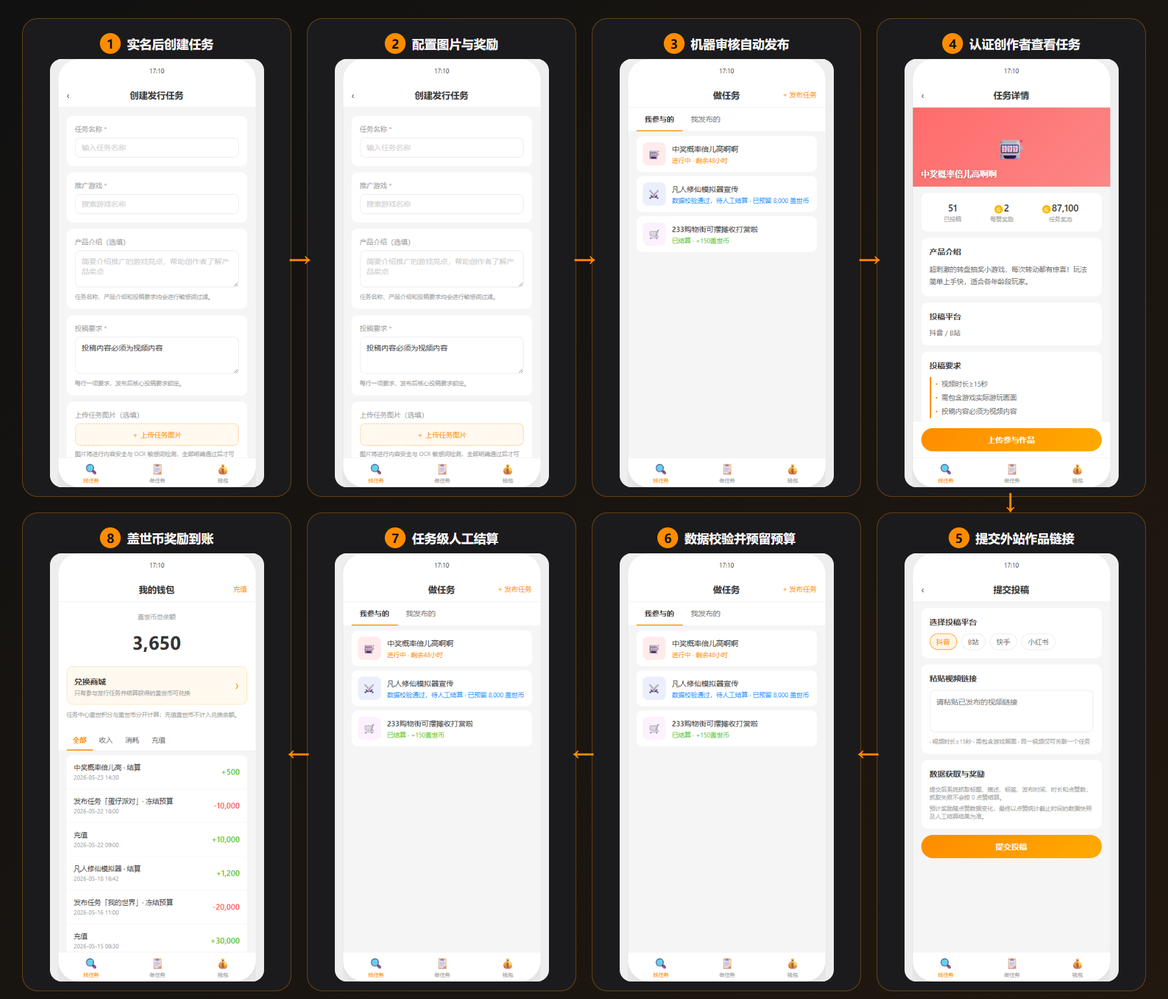
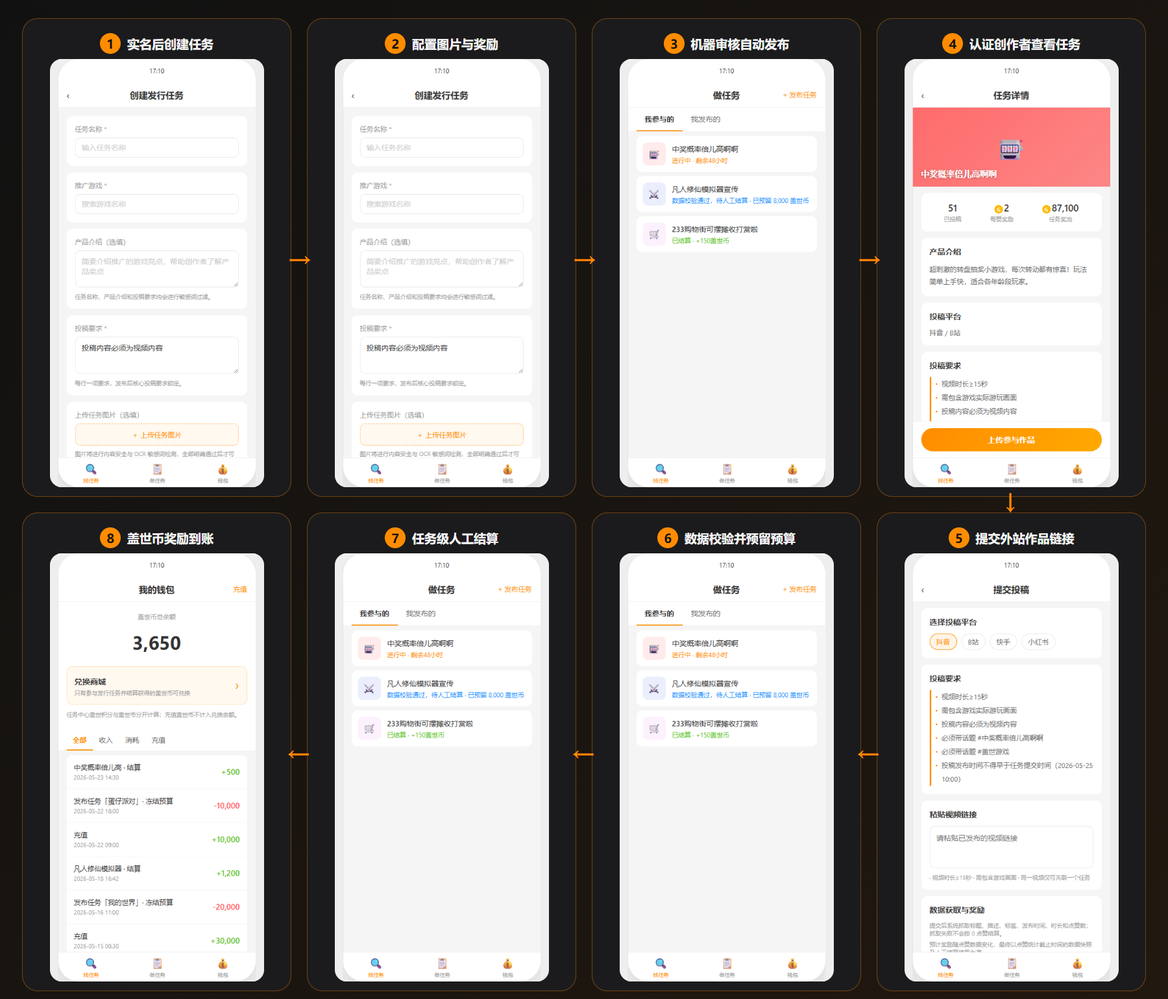
feat: enforce publisher submission requirements

Changed region(s): [[0.7778, 0.6545, 0.9644, 0.9662]]

diff --git a/demos/Mod与发行人/发行人计划demo.html b/demos/Mod与发行人/发行人计划demo.html
@@ -245,6 +245,7 @@ body{font-family:-apple-system,BlinkMacSystemFont,"Segoe UI",Roboto,sans-serif;b
 <div class="header"><span class="back" onclick="showView('mytask')">‹</span><span class="title">提交投稿</span></div>
 <div class="content">
 <div class="section"><div class="section-title">选择投稿平台</div><div class="platform-multi" id="submit-platforms"><div class="pm-item selected" data-p="douyin">抖音</div><div class="pm-item" data-p="bilibili">B站</div><div class="pm-item" data-p="kuaishou">快手</div><div class="pm-item" data-p="xiaohongshu">小红书</div></div></div>
+<div class="section" id="submit-requirements"><div class="section-title">投稿要求</div></div>
 <div class="section"><div class="section-title">粘贴视频链接</div><textarea id="video-link" style="width:100%;padding:12px;border:1px solid #e8e8e8;border-radius:10px;font-size:14px;resize:none;height:80px;outline:none" placeholder="请粘贴已发布的视频链接"></textarea><div class="form-tip">· 视频时长≥15秒 · 需包含游戏画面 · 同一视频仅可关联一个任务</div></div>
 <div class="section submission-data-card" id="submission-data-card"><div class="section-title">数据获取与奖励</div><div class="form-tip">提交后系统抓取标题、描述、标签、发布时间、时长和点赞数；抓取失败不会按 0 点赞结算。</div><div class="form-tip">预计奖励随点赞数据变化，最终以点赞统计截止时间的数据快照及人工结算结果为准。</div></div>
 <div style="padding:0 16px 16px"><button class="btn-primary" onclick="submitVideo()">提交投稿</button></div>
@@ -308,15 +309,15 @@ const platformMap={douyin:'抖音',bilibili:'B站',kuaishou:'快手',xiaohongshu
 const CI='<span class="coin-icon">G</span>';
 
 const tasks=[
-{id:1,title:'中奖概率倍儿高啊啊',gameId:1,badge:'官方',platforms:['douyin','bilibili'],reward:2,maxReward:10000,pool:87100,reserved:30000,submissions:51,deadline:'2026-06-15',snapshotDeadline:'2026-06-18 23:59',status:'进行中',ruleVersion:1,productIntro:'超刺激的转盘抽奖小游戏，每次转动都有惊喜！玩法简单上手快，适合各年龄段玩家。',
+{id:1,title:'中奖概率倍儿高啊啊',gameId:1,badge:'官方',platforms:['douyin','bilibili'],reward:2,maxReward:10000,pool:87100,reserved:30000,submissions:51,submittedAt:'2026-05-25 10:00',deadline:'2026-06-15',snapshotDeadline:'2026-06-18 23:59',status:'进行中',ruleVersion:1,productIntro:'超刺激的转盘抽奖小游戏，每次转动都有惊喜！玩法简单上手快，适合各年龄段玩家。',
 requirements:['视频时长≥15秒','需包含游戏实际游玩画面','投稿内容必须为视频内容']},
-{id:2,title:'凡人修仙模拟器宣传',gameId:2,badge:null,platforms:['bilibili'],reward:1,maxReward:8000,pool:50000,reserved:16000,submissions:11,deadline:'2026-06-10',snapshotDeadline:'2026-06-13 23:59',status:'进行中',ruleVersion:1,productIntro:'国风修仙放置类RPG，从凡人一步步修炼成仙。画面精美，剧情丰富，适合喜欢修仙题材的玩家。建议展示核心战斗和升级系统。',
+{id:2,title:'凡人修仙模拟器宣传',gameId:2,badge:null,platforms:['bilibili'],reward:1,maxReward:8000,pool:50000,reserved:16000,submissions:11,submittedAt:'2026-05-24 12:00',deadline:'2026-06-10',snapshotDeadline:'2026-06-13 23:59',status:'进行中',ruleVersion:1,productIntro:'国风修仙放置类RPG，从凡人一步步修炼成仙。画面精美，剧情丰富，适合喜欢修仙题材的玩家。建议展示核心战斗和升级系统。',
 requirements:['视频时长≥30秒','需展示游戏核心玩法','标题需包含游戏名称','投稿内容必须为视频']},
-{id:3,title:'233购物街可摆摊收打赏啦',gameId:3,badge:'官方',platforms:['douyin','kuaishou','xiaohongshu'],reward:3,maxReward:6000,pool:30000,reserved:12000,submissions:7,deadline:'2026-06-01',snapshotDeadline:'2026-06-04 23:59',status:'进行中',ruleVersion:1,productIntro:'模拟经营类游戏，玩家可以开店摆摊、装修店铺、与好友互动。新版本上线了打赏功能，社交玩法更丰富。',
+{id:3,title:'233购物街可摆摊收打赏啦',gameId:3,badge:'官方',platforms:['douyin','kuaishou','xiaohongshu'],reward:3,maxReward:6000,pool:30000,reserved:12000,submissions:7,submittedAt:'2026-05-20 09:30',deadline:'2026-06-01',snapshotDeadline:'2026-06-04 23:59',status:'进行中',ruleVersion:1,productIntro:'模拟经营类游戏，玩家可以开店摆摊、装修店铺、与好友互动。新版本上线了打赏功能，社交玩法更丰富。',
 requirements:['视频时长≥15秒','需展示摆摊和打赏功能','投稿内容必须为视频']},
-{id:4,title:'测测你是热梗王吗推广',gameId:4,badge:null,platforms:['douyin','bilibili','kuaishou','xiaohongshu'],reward:2,maxReward:5000,pool:25000,reserved:10000,submissions:7,deadline:'2026-06-08',snapshotDeadline:'2026-06-11 23:59',status:'进行中',ruleVersion:1,productIntro:'趣味答题游戏，涵盖最新网络热梗。答对越多排名越高，适合拍摄"挑战类"短视频，容易引发观众互动。',
+{id:4,title:'测测你是热梗王吗推广',gameId:4,badge:null,platforms:['douyin','bilibili','kuaishou','xiaohongshu'],reward:2,maxReward:5000,pool:25000,reserved:10000,submissions:7,submittedAt:'2026-05-21 14:00',deadline:'2026-06-08',snapshotDeadline:'2026-06-11 23:59',status:'进行中',ruleVersion:1,productIntro:'趣味答题游戏，涵盖最新网络热梗。答对越多排名越高，适合拍摄"挑战类"短视频，容易引发观众互动。',
 requirements:['视频时长≥15秒','需展示答题过程和结果','推荐使用相关话题标签','投稿内容必须为视频']},
-{id:5,title:'polo小球角色分享',gameId:5,badge:null,platforms:['xiaohongshu'],reward:5,maxReward:15000,pool:60000,reserved:15000,submissions:7,deadline:'2026-06-20',snapshotDeadline:'2026-06-23 23:59',status:'进行中',ruleVersion:1,productIntro:'休闲竞技小球对战游戏，角色造型可爱多样。适合在小红书分享角色外观和精彩对战瞬间。',
+{id:5,title:'polo小球角色分享',gameId:5,badge:null,platforms:['xiaohongshu'],reward:5,maxReward:15000,pool:60000,reserved:15000,submissions:7,submittedAt:'2026-05-26 11:00',deadline:'2026-06-20',snapshotDeadline:'2026-06-23 23:59',status:'进行中',ruleVersion:1,productIntro:'休闲竞技小球对战游戏，角色造型可爱多样。适合在小红书分享角色外观和精彩对战瞬间。',
 requirements:['视频时长≥10秒','需展示角色外观或对战画面','投稿内容必须为视频']}
 ];
 
@@ -331,8 +332,8 @@ const rankData=[
 ];
 
 const myPublished=[
-{id:101,title:'我的世界建筑大赛',status:'机器审核中',statusColor:'#1890ff',gameId:7,reward:10,maxReward:1000,pool:20000,reserved:0,submissions:0,platforms:['bilibili','douyin'],deadline:'2026-09-30 23:59',snapshotDeadline:'2026-10-03 23:59',ruleVersion:1,productIntro:'分享有创意的建筑作品。',requirements:['投稿内容必须为视频内容'],budgetSources:{recharge:20000,reward:0}},
-{id:102,title:'蛋仔派对新皮肤推广',status:'进行中',statusColor:'#ff8c00',gameId:8,reward:5,maxReward:500,pool:10000,reserved:2000,submissions:4,platforms:['douyin','kuaishou'],deadline:'2026-09-25 23:59',snapshotDeadline:'2026-09-28 23:59',ruleVersion:1,productIntro:'展示新皮肤及局内效果。',requirements:['投稿内容必须为视频内容'],budgetSources:{recharge:10000,reward:0}}
+{id:101,title:'我的世界建筑大赛',status:'机器审核中',statusColor:'#1890ff',gameId:7,reward:10,maxReward:1000,pool:20000,reserved:0,submissions:0,platforms:['bilibili','douyin'],submittedAt:'2026-09-11 10:00',deadline:'2026-09-30 23:59',snapshotDeadline:'2026-10-03 23:59',ruleVersion:1,productIntro:'分享有创意的建筑作品。',requirements:['投稿内容必须为视频内容'],budgetSources:{recharge:20000,reward:0}},
+{id:102,title:'蛋仔派对新皮肤推广',status:'进行中',statusColor:'#ff8c00',gameId:8,reward:5,maxReward:500,pool:10000,reserved:2000,submissions:4,platforms:['douyin','kuaishou'],submittedAt:'2026-09-10 14:30',deadline:'2026-09-25 23:59',snapshotDeadline:'2026-09-28 23:59',ruleVersion:1,productIntro:'展示新皮肤及局内效果。',requirements:['投稿内容必须为视频内容'],budgetSources:{recharge:10000,reward:0}}
 ];
 const myJoined=[
 {taskId:1,status:'进行中',statusColor:'#ff8c00',note:'剩余48小时'},
@@ -360,6 +361,7 @@ const rechargeSkus=[1000,5000,10000,50000,100000,500000];
 
 const publisherState={
   beijingDate:'2026-09-11',
+  beijingDateTime:'2026-09-11 10:00',
   submittedToday:9,
   submitPending:false,
   uploadedImages:[]
@@ -368,7 +370,7 @@ const publisherState={
 const submissions=[
   {
     id:'SUB001',taskId:1,platform:'douyin',contentId:'7382xxx',link:'https://www.douyin.com/video/7382xxx',
-    title:'转盘挑战实录',description:'挑战中奖概率',tags:['游戏','转盘'],duration:36,likes:3800,
+    title:'转盘挑战实录',description:'挑战中奖概率',tags:['中奖概率倍儿高啊啊','盖世游戏'],publishedAt:'2026-05-26 18:20',duration:36,likes:3800,
     fetchedAt:'2026-09-11 10:30',expectedReward:7600,reservedCoin:10000,
     status:'数据校验通过，待人工结算',risk:'正常'
   }
@@ -400,6 +402,46 @@ const submissionScenario=link=>
   link.includes('timeout')?'抓取重试':
   link.includes('private')?'风险挂起':
   link.includes('risk')?'人工处理':'normal';
+
+function requiredSubmissionTopics(task=currentTask){
+  const game=task?G(task.gameId):null;
+  return game?[game.name,'盖世游戏']:['盖世游戏'];
+}
+
+function submissionRequirements(task=currentTask){
+  if(!task)return [];
+  const [gameTopic,brandTopic]=requiredSubmissionTopics(task);
+  return [...new Set([
+    ...(task.requirements||[]),
+    `必须带话题 #${gameTopic}`,
+    `必须带话题 #${brandTopic}`,
+    `投稿发布时间不得早于任务提交时间（${task.submittedAt}）`
+  ])];
+}
+
+function renderSubmissionRequirements(){
+  const container=document.getElementById('submit-requirements');
+  if(!container||!currentTask)return;
+  container.innerHTML=`<div class="section-title">投稿要求</div><ul class="requirement-list">${submissionRequirements(currentTask).map(item=>`<li>${item}</li>`).join('')}</ul>`;
+}
+
+function mockSubmissionContent(link,task=currentTask){
+  const [gameTopic,brandTopic]=requiredSubmissionTopics(task);
+  const tags=link.includes('missing-game-topic')?[brandTopic]:link.includes('missing-brand-topic')?[gameTopic]:[gameTopic,brandTopic];
+  const publishedAt=link.includes('early')?'2026-05-24 09:00':'2026-09-11 10:30';
+  return {title:'抓取成功的作品标题',description:'抓取成功的作品描述',tags,publishedAt,duration:36,likes:3800};
+}
+
+function validateSubmissionContent(task,content){
+  const normalizedTags=(content.tags||[]).map(tag=>String(tag).trim().replace(/^#/u,''));
+  const missingTopics=requiredSubmissionTopics(task).filter(topic=>!normalizedTags.includes(topic));
+  if(missingTopics.length)return {ok:false,message:`投稿需带话题 ${missingTopics.map(topic=>`#${topic}`).join('、')}`};
+  const publishedAt=Date.parse(String(content.publishedAt||'').replace(' ','T'));
+  const taskSubmittedAt=Date.parse(String(task.submittedAt||'').replace(' ','T'));
+  if(!Number.isFinite(publishedAt)||!Number.isFinite(taskSubmittedAt))return {ok:false,message:'未获取到有效发布时间，暂不能投稿'};
+  if(publishedAt<taskSubmittedAt)return {ok:false,message:`投稿发布时间不得早于任务提交时间 ${task.submittedAt}`};
+  return {ok:true};
+}
 
 const jdCards=[
   {id:'JD10',name:'京东E卡 10元',faceValue:10,cost:1000,stock:8,limit:2},
@@ -536,7 +578,7 @@ function openDetail(id){
 <div class="section"><div class="detail-stats"><div class="detail-stat-item"><div class="num">${currentTask.submissions}</div><div class="label">已投稿</div></div><div class="detail-stat-item"><div class="num">${CI}${currentTask.reward}</div><div class="label">每赞奖励</div></div><div class="detail-stat-item"><div class="num">${CI}${currentTask.pool.toLocaleString()}</div><div class="label">任务奖池</div></div></div></div>
 <div class="section"><div class="section-title">产品介绍</div><div style="font-size:13px;color:#666;line-height:1.8">${currentTask.productIntro||'暂无产品介绍'}</div></div>
 <div class="section"><div class="section-title">投稿平台</div><div style="font-size:13px;color:#666">${pn}</div></div>
-<div class="section"><div class="section-title">投稿要求</div><ul class="requirement-list">${currentTask.requirements.map(r=>`<li>${r}</li>`).join('')}</ul></div>
+<div class="section"><div class="section-title">投稿要求</div><ul class="requirement-list">${submissionRequirements(currentTask).map(r=>`<li>${r}</li>`).join('')}</ul></div>
 <div class="section"><div class="section-title">奖励与结算</div><div class="rule-copy">每 1 个赞奖励 ${currentTask.reward} 盖世币，单篇最高 ${currentTask.maxReward.toLocaleString()} 盖世币。</div><div class="rule-copy">预计奖励 = min（当前点赞数 × 每赞单价，单稿奖励上限）。最终以点赞统计截止时间 ${currentTask.snapshotDeadline} 的数据快照及人工结算结果为准。</div><div class="rule-copy">投稿数据校验通过时按单稿奖励上限预留奖池；可用预算不足一个单稿上限时停止接收新投稿。</div></div>
 <div class="section"><div class="section-title">收入排行</div>${rankData.map((r,i)=>`<div class="rank-item"><div class="rank-num t${i+1}">${i+1}</div><div class="rank-avatar">${r.avatar}</div><div class="rank-info"><div class="rn">${r.name}</div><div class="rr">投稿奖励 ${CI}${r.reward}</div></div><div class="rank-view" onclick="event.stopPropagation();showToast('打开作品链接')">查看投稿 ›</div></div>`).join('')}</div>
 <div style="height:70px"></div>`;
@@ -809,7 +851,7 @@ function submitCreate(isEdit){
   const task={
     id:Date.now(),title:draft.title,gameId:selectedGameId,badge:null,platforms:draft.platforms,
     reward:draft.reward,maxReward:draft.maxReward,pool:draft.pool,reserved:0,submissions:0,
-    deadline:draft.submitDeadline.replace('T',' '),snapshotDeadline:draft.snapshotDeadline.replace('T',' '),
+    submittedAt:publisherState.beijingDateTime,deadline:draft.submitDeadline.replace('T',' '),snapshotDeadline:draft.snapshotDeadline.replace('T',' '),
     status:'机器审核中',statusColor:'#1890ff',ruleVersion:1,productIntro:draft.productIntro,
     requirements:draft.requirements,images:publisherState.uploadedImages.map(image=>({...image})),budgetSources
   };
@@ -850,14 +892,17 @@ function submitVideo(){
     showToast(scenario==='抓取重试'?'外站数据暂未取全，已进入抓取重试':`${scenario}，不会按 0 点赞结算`);
     return;
   }
+  const fetchedContent=mockSubmissionContent(link,currentTask);
+  const contentValidation=validateSubmissionContent(currentTask,fetchedContent);
+  if(!contentValidation.ok){showToast(contentValidation.message);return;}
   const available=currentTask.pool-currentTask.reserved;
   if(available<currentTask.maxReward){showToast('当前任务奖池名额已满');return;}
-  const likes=3800;
+  const likes=fetchedContent.likes;
   const expectedReward=calculateReward(likes,currentTask.reward,currentTask.maxReward);
   currentTask.reserved+=currentTask.maxReward;
   submissions.unshift({
     id:`SUB${Date.now()}`,taskId:currentTask.id,platform:selectedPlatform,contentId,link,
-    title:'抓取成功的作品标题',description:'抓取成功的作品描述',tags:['游戏'],duration:36,likes,
+    title:fetchedContent.title,description:fetchedContent.description,tags:fetchedContent.tags,publishedAt:fetchedContent.publishedAt,duration:fetchedContent.duration,likes,
     fetchedAt:'2026-09-11 10:30',expectedReward,reservedCoin:currentTask.maxReward,
     status:'数据校验通过，待人工结算',risk:'正常'
   });
@@ -1016,6 +1061,7 @@ function showView(name){
   document.querySelectorAll('.view').forEach(v=>v.classList.remove('active'));
   const v=document.getElementById('view-'+name);if(v)v.classList.add('active');
   if(name==='mytask')renderMyTasks();
+  if(name==='submit')renderSubmissionRequirements();
   if(name==='earnings')renderEarnList();
   if(name==='card-store')renderCardStore();
   if(name==='recharge')renderRecharge();

diff --git a/demos/Mod与发行人/发行人计划demo.js b/demos/Mod与发行人/发行人计划demo.js
@@ -12,15 +12,15 @@ const platformMap={douyin:'抖音',bilibili:'B站',kuaishou:'快手',xiaohongshu
 const CI='<span class="coin-icon">G</span>';
 
 const tasks=[
-{id:1,title:'中奖概率倍儿高啊啊',gameId:1,badge:'官方',platforms:['douyin','bilibili'],reward:2,maxReward:10000,pool:87100,reserved:30000,submissions:51,deadline:'2026-06-15',snapshotDeadline:'2026-06-18 23:59',status:'进行中',ruleVersion:1,productIntro:'超刺激的转盘抽奖小游戏，每次转动都有惊喜！玩法简单上手快，适合各年龄段玩家。',
+{id:1,title:'中奖概率倍儿高啊啊',gameId:1,badge:'官方',platforms:['douyin','bilibili'],reward:2,maxReward:10000,pool:87100,reserved:30000,submissions:51,submittedAt:'2026-05-25 10:00',deadline:'2026-06-15',snapshotDeadline:'2026-06-18 23:59',status:'进行中',ruleVersion:1,productIntro:'超刺激的转盘抽奖小游戏，每次转动都有惊喜！玩法简单上手快，适合各年龄段玩家。',
 requirements:['视频时长≥15秒','需包含游戏实际游玩画面','投稿内容必须为视频内容']},
-{id:2,title:'凡人修仙模拟器宣传',gameId:2,badge:null,platforms:['bilibili'],reward:1,maxReward:8000,pool:50000,reserved:16000,submissions:11,deadline:'2026-06-10',snapshotDeadline:'2026-06-13 23:59',status:'进行中',ruleVersion:1,productIntro:'国风修仙放置类RPG，从凡人一步步修炼成仙。画面精美，剧情丰富，适合喜欢修仙题材的玩家。建议展示核心战斗和升级系统。',
+{id:2,title:'凡人修仙模拟器宣传',gameId:2,badge:null,platforms:['bilibili'],reward:1,maxReward:8000,pool:50000,reserved:16000,submissions:11,submittedAt:'2026-05-24 12:00',deadline:'2026-06-10',snapshotDeadline:'2026-06-13 23:59',status:'进行中',ruleVersion:1,productIntro:'国风修仙放置类RPG，从凡人一步步修炼成仙。画面精美，剧情丰富，适合喜欢修仙题材的玩家。建议展示核心战斗和升级系统。',
 requirements:['视频时长≥30秒','需展示游戏核心玩法','标题需包含游戏名称','投稿内容必须为视频']},
-{id:3,title:'233购物街可摆摊收打赏啦',gameId:3,badge:'官方',platforms:['douyin','kuaishou','xiaohongshu'],reward:3,maxReward:6000,pool:30000,reserved:12000,submissions:7,deadline:'2026-06-01',snapshotDeadline:'2026-06-04 23:59',status:'进行中',ruleVersion:1,productIntro:'模拟经营类游戏，玩家可以开店摆摊、装修店铺、与好友互动。新版本上线了打赏功能，社交玩法更丰富。',
+{id:3,title:'233购物街可摆摊收打赏啦',gameId:3,badge:'官方',platforms:['douyin','kuaishou','xiaohongshu'],reward:3,maxReward:6000,pool:30000,reserved:12000,submissions:7,submittedAt:'2026-05-20 09:30',deadline:'2026-06-01',snapshotDeadline:'2026-06-04 23:59',status:'进行中',ruleVersion:1,productIntro:'模拟经营类游戏，玩家可以开店摆摊、装修店铺、与好友互动。新版本上线了打赏功能，社交玩法更丰富。',
 requirements:['视频时长≥15秒','需展示摆摊和打赏功能','投稿内容必须为视频']},
-{id:4,title:'测测你是热梗王吗推广',gameId:4,badge:null,platforms:['douyin','bilibili','kuaishou','xiaohongshu'],reward:2,maxReward:5000,pool:25000,reserved:10000,submissions:7,deadline:'2026-06-08',snapshotDeadline:'2026-06-11 23:59',status:'进行中',ruleVersion:1,productIntro:'趣味答题游戏，涵盖最新网络热梗。答对越多排名越高，适合拍摄"挑战类"短视频，容易引发观众互动。',
+{id:4,title:'测测你是热梗王吗推广',gameId:4,badge:null,platforms:['douyin','bilibili','kuaishou','xiaohongshu'],reward:2,maxReward:5000,pool:25000,reserved:10000,submissions:7,submittedAt:'2026-05-21 14:00',deadline:'2026-06-08',snapshotDeadline:'2026-06-11 23:59',status:'进行中',ruleVersion:1,productIntro:'趣味答题游戏，涵盖最新网络热梗。答对越多排名越高，适合拍摄"挑战类"短视频，容易引发观众互动。',
 requirements:['视频时长≥15秒','需展示答题过程和结果','推荐使用相关话题标签','投稿内容必须为视频']},
-{id:5,title:'polo小球角色分享',gameId:5,badge:null,platforms:['xiaohongshu'],reward:5,maxReward:15000,pool:60000,reserved:15000,submissions:7,deadline:'2026-06-20',snapshotDeadline:'2026-06-23 23:59',status:'进行中',ruleVersion:1,productIntro:'休闲竞技小球对战游戏，角色造型可爱多样。适合在小红书分享角色外观和精彩对战瞬间。',
+{id:5,title:'polo小球角色分享',gameId:5,badge:null,platforms:['xiaohongshu'],reward:5,maxReward:15000,pool:60000,reserved:15000,submissions:7,submittedAt:'2026-05-26 11:00',deadline:'2026-06-20',snapshotDeadline:'2026-06-23 23:59',status:'进行中',ruleVersion:1,productIntro:'休闲竞技小球对战游戏，角色造型可爱多样。适合在小红书分享角色外观和精彩对战瞬间。',
 requirements:['视频时长≥10秒','需展示角色外观或对战画面','投稿内容必须为视频']}
 ];
 
@@ -35,8 +35,8 @@ const rankData=[
 ];
 
 const myPublished=[
-{id:101,title:'我的世界建筑大赛',status:'机器审核中',statusColor:'#1890ff',gameId:7,reward:10,maxReward:1000,pool:20000,reserved:0,submissions:0,platforms:['bilibili','douyin'],deadline:'2026-09-30 23:59',snapshotDeadline:'2026-10-03 23:59',ruleVersion:1,productIntro:'分享有创意的建筑作品。',requirements:['投稿内容必须为视频内容'],budgetSources:{recharge:20000,reward:0}},
-{id:102,title:'蛋仔派对新皮肤推广',status:'进行中',statusColor:'#ff8c00',gameId:8,reward:5,maxReward:500,pool:10000,reserved:2000,submissions:4,platforms:['douyin','kuaishou'],deadline:'2026-09-25 23:59',snapshotDeadline:'2026-09-28 23:59',ruleVersion:1,productIntro:'展示新皮肤及局内效果。',requirements:['投稿内容必须为视频内容'],budgetSources:{recharge:10000,reward:0}}
+{id:101,title:'我的世界建筑大赛',status:'机器审核中',statusColor:'#1890ff',gameId:7,reward:10,maxReward:1000,pool:20000,reserved:0,submissions:0,platforms:['bilibili','douyin'],submittedAt:'2026-09-11 10:00',deadline:'2026-09-30 23:59',snapshotDeadline:'2026-10-03 23:59',ruleVersion:1,productIntro:'分享有创意的建筑作品。',requirements:['投稿内容必须为视频内容'],budgetSources:{recharge:20000,reward:0}},
+{id:102,title:'蛋仔派对新皮肤推广',status:'进行中',statusColor:'#ff8c00',gameId:8,reward:5,maxReward:500,pool:10000,reserved:2000,submissions:4,platforms:['douyin','kuaishou'],submittedAt:'2026-09-10 14:30',deadline:'2026-09-25 23:59',snapshotDeadline:'2026-09-28 23:59',ruleVersion:1,productIntro:'展示新皮肤及局内效果。',requirements:['投稿内容必须为视频内容'],budgetSources:{recharge:10000,reward:0}}
 ];
 const myJoined=[
 {taskId:1,status:'进行中',statusColor:'#ff8c00',note:'剩余48小时'},
@@ -64,6 +64,7 @@ const rechargeSkus=[1000,5000,10000,50000,100000,500000];
 
 const publisherState={
   beijingDate:'2026-09-11',
+  beijingDateTime:'2026-09-11 10:00',
   submittedToday:9,
   submitPending:false,
   uploadedImages:[]
@@ -72,7 +73,7 @@ const publisherState={
 const submissions=[
   {
     id:'SUB001',taskId:1,platform:'douyin',contentId:'7382xxx',link:'https://www.douyin.com/video/7382xxx',
-    title:'转盘挑战实录',description:'挑战中奖概率',tags:['游戏','转盘'],duration:36,likes:3800,
+    title:'转盘挑战实录',description:'挑战中奖概率',tags:['中奖概率倍儿高啊啊','盖世游戏'],publishedAt:'2026-05-26 18:20',duration:36,likes:3800,
     fetchedAt:'2026-09-11 10:30',expectedReward:7600,reservedCoin:10000,
     status:'数据校验通过，待人工结算',risk:'正常'
   }
@@ -104,6 +105,46 @@ const submissionScenario=link=>
   link.includes('timeout')?'抓取重试':
   link.includes('private')?'风险挂起':
   link.includes('risk')?'人工处理':'normal';
+
+function requiredSubmissionTopics(task=currentTask){
+  const game=task?G(task.gameId):null;
+  return game?[game.name,'盖世游戏']:['盖世游戏'];
+}
+
+function submissionRequirements(task=currentTask){
+  if(!task)return [];
+  const [gameTopic,brandTopic]=requiredSubmissionTopics(task);
+  return [...new Set([
+    ...(task.requirements||[]),
+    `必须带话题 #${gameTopic}`,
+    `必须带话题 #${brandTopic}`,
+    `投稿发布时间不得早于任务提交时间（${task.submittedAt}）`
+  ])];
+}
+
+function renderSubmissionRequirements(){
+  const container=document.getElementById('submit-requirements');
+  if(!container||!currentTask)return;
+  container.innerHTML=`<div class="section-title">投稿要求</div><ul class="requirement-list">${submissionRequirements(currentTask).map(item=>`<li>${item}</li>`).join('')}</ul>`;
+}
+
+function mockSubmissionContent(link,task=currentTask){
+  const [gameTopic,brandTopic]=requiredSubmissionTopics(task);
+  const tags=link.includes('missing-game-topic')?[brandTopic]:link.includes('missing-brand-topic')?[gameTopic]:[gameTopic,brandTopic];
+  const publishedAt=link.includes('early')?'2026-05-24 09:00':'2026-09-11 10:30';
+  return {title:'抓取成功的作品标题',description:'抓取成功的作品描述',tags,publishedAt,duration:36,likes:3800};
+}
+
+function validateSubmissionContent(task,content){
+  const normalizedTags=(content.tags||[]).map(tag=>String(tag).trim().replace(/^#/u,''));
+  const missingTopics=requiredSubmissionTopics(task).filter(topic=>!normalizedTags.includes(topic));
+  if(missingTopics.length)return {ok:false,message:`投稿需带话题 ${missingTopics.map(topic=>`#${topic}`).join('、')}`};
+  const publishedAt=Date.parse(String(content.publishedAt||'').replace(' ','T'));
+  const taskSubmittedAt=Date.parse(String(task.submittedAt||'').replace(' ','T'));
+  if(!Number.isFinite(publishedAt)||!Number.isFinite(taskSubmittedAt))return {ok:false,message:'未获取到有效发布时间，暂不能投稿'};
+  if(publishedAt<taskSubmittedAt)return {ok:false,message:`投稿发布时间不得早于任务提交时间 ${task.submittedAt}`};
+  return {ok:true};
+}
 
 const jdCards=[
   {id:'JD10',name:'京东E卡 10元',faceValue:10,cost:1000,stock:8,limit:2},
@@ -240,7 +281,7 @@ function openDetail(id){
 <div class="section"><div class="detail-stats"><div class="detail-stat-item"><div class="num">${currentTask.submissions}</div><div class="label">已投稿</div></div><div class="detail-stat-item"><div class="num">${CI}${currentTask.reward}</div><div class="label">每赞奖励</div></div><div class="detail-stat-item"><div class="num">${CI}${currentTask.pool.toLocaleString()}</div><div class="label">任务奖池</div></div></div></div>
 <div class="section"><div class="section-title">产品介绍</div><div style="font-size:13px;color:#666;line-height:1.8">${currentTask.productIntro||'暂无产品介绍'}</div></div>
 <div class="section"><div class="section-title">投稿平台</div><div style="font-size:13px;color:#666">${pn}</div></div>
-<div class="section"><div class="section-title">投稿要求</div><ul class="requirement-list">${currentTask.requirements.map(r=>`<li>${r}</li>`).join('')}</ul></div>
+<div class="section"><div class="section-title">投稿要求</div><ul class="requirement-list">${submissionRequirements(currentTask).map(r=>`<li>${r}</li>`).join('')}</ul></div>
 <div class="section"><div class="section-title">奖励与结算</div><div class="rule-copy">每 1 个赞奖励 ${currentTask.reward} 盖世币，单篇最高 ${currentTask.maxReward.toLocaleString()} 盖世币。</div><div class="rule-copy">预计奖励 = min（当前点赞数 × 每赞单价，单稿奖励上限）。最终以点赞统计截止时间 ${currentTask.snapshotDeadline} 的数据快照及人工结算结果为准。</div><div class="rule-copy">投稿数据校验通过时按单稿奖励上限预留奖池；可用预算不足一个单稿上限时停止接收新投稿。</div></div>
 <div class="section"><div class="section-title">收入排行</div>${rankData.map((r,i)=>`<div class="rank-item"><div class="rank-num t${i+1}">${i+1}</div><div class="rank-avatar">${r.avatar}</div><div class="rank-info"><div class="rn">${r.name}</div><div class="rr">投稿奖励 ${CI}${r.reward}</div></div><div class="rank-view" onclick="event.stopPropagation();showToast('打开作品链接')">查看投稿 ›</div></div>`).join('')}</div>
 <div style="height:70px"></div>`;
@@ -513,7 +554,7 @@ function submitCreate(isEdit){
   const task={
     id:Date.now(),title:draft.title,gameId:selectedGameId,badge:null,platforms:draft.platforms,
     reward:draft.reward,maxReward:draft.maxReward,pool:draft.pool,reserved:0,submissions:0,
-    deadline:draft.submitDeadline.replace('T',' '),snapshotDeadline:draft.snapshotDeadline.replace('T',' '),
+    submittedAt:publisherState.beijingDateTime,deadline:draft.submitDeadline.replace('T',' '),snapshotDeadline:draft.snapshotDeadline.replace('T',' '),
     status:'机器审核中',statusColor:'#1890ff',ruleVersion:1,productIntro:draft.productIntro,
     requirements:draft.requirements,images:publisherState.uploadedImages.map(image=>({...image})),budgetSources
   };
@@ -554,14 +595,17 @@ function submitVideo(){
     showToast(scenario==='抓取重试'?'外站数据暂未取全，已进入抓取重试':`${scenario}，不会按 0 点赞结算`);
     return;
   }
+  const fetchedContent=mockSubmissionContent(link,currentTask);
+  const contentValidation=validateSubmissionContent(currentTask,fetchedContent);
+  if(!contentValidation.ok){showToast(contentValidation.message);return;}
   const available=currentTask.pool-currentTask.reserved;
   if(available<currentTask.maxReward){showToast('当前任务奖池名额已满');return;}
-  const likes=3800;
+  const likes=fetchedContent.likes;
   const expectedReward=calculateReward(likes,currentTask.reward,currentTask.maxReward);
   currentTask.reserved+=currentTask.maxReward;
   submissions.unshift({
     id:`SUB${Date.now()}`,taskId:currentTask.id,platform:selectedPlatform,contentId,link,
-    title:'抓取成功的作品标题',description:'抓取成功的作品描述',tags:['游戏'],duration:36,likes,
+    title:fetchedContent.title,description:fetchedContent.description,tags:fetchedContent.tags,publishedAt:fetchedContent.publishedAt,duration:fetchedContent.duration,likes,
     fetchedAt:'2026-09-11 10:30',expectedReward,reservedCoin:currentTask.maxReward,
     status:'数据校验通过，待人工结算',risk:'正常'
   });
@@ -720,6 +764,7 @@ function showView(name){
   document.querySelectorAll('.view').forEach(v=>v.classList.remove('active'));
   const v=document.getElementById('view-'+name);if(v)v.classList.add('active');
   if(name==='mytask')renderMyTasks();
+  if(name==='submit')renderSubmissionRequirements();
   if(name==='earnings')renderEarnList();
   if(name==='card-store')renderCardStore();
   if(name==='recharge')renderRecharge();

diff --git a/prd/ai生成/【Prd】《盖世游戏》发行人计划需求.md b/prd/ai生成/【Prd】《盖世游戏》发行人计划需求.md
@@ -12,8 +12,9 @@
 | 2026/9/14 | 增加发行人计划功能总开关及 20%／50%／100% 灰度外放，使用稳定用户分桶并保护存量履约 | V2.4 | 郑群超 |
 | 2026/9/14 | 发布任务和兑换增加实名认证前置校验，认证成功后恢复原动作，最终提交时由服务端再次校验 | V2.5 | 郑群超 |
 | 2026/9/14 | 创建发行任务页主按钮文案由“提交并进行机器审核”简化为“提交” | V2.6 | 郑群超 |
+| 2026/9/14 | 任务详情与提交投稿页增加完整投稿要求；强制游戏话题、盖世游戏话题及投稿时间下限，并纳入自动校验 | V2.7 | 郑群超 |
 
-**备注：** 搜2026.9.14修改；机器审核与人工结算见 V2.3，功能灰度外放见 V2.4，发布与兑换实名认证门槛见 V2.5，提交按钮文案见 V2.6。
+**备注：** 搜2026.9.14修改；机器审核与人工结算见 V2.3，功能灰度外放见 V2.4，发布与兑换实名认证门槛见 V2.5，提交按钮文案见 V2.6，投稿要求与校验见 V2.7。
 
 ## 一、文档概述
 
@@ -109,7 +110,7 @@
 | 功能简介 | 展示任务对象、投稿要求、盖世币奖励、结算规则和投稿入口。 |
 | 场景描述 | 创作者从任务广场或“做任务”列表查看某个发行人任务。 |
 | 输入／前置条件 | 任务存在；用户可查看。新投稿需命中灰度、完成实名认证与创作者认证，且可用预算不少于一个单稿奖励上限。 |
-| 需求描述 | **图示：**<br>![任务详情](https://cdn.jsdelivr.net/gh/z36358631-ship-it/-@232d9fbaadb5f2d45c2c431c2e232bb733db95b5/public/prd/publisher-plan-v2/03-task-detail.png)<br>**详细说明：** 详情页展示完整任务和奖励规则，并在进入投稿前执行准入、资格与预算校验。<br>**展示说明：**<br>1. 统计区展示已投稿数、每赞奖励和任务奖池；正文展示产品介绍、平台、投稿要求、奖励与结算、收入排行。<br>2. 奖励逐字说明“每 1 个赞奖励 X 盖世币，单篇最高 Y 盖世币”；预计奖励 = min（当前点赞数 × 每赞单价，单稿奖励上限）。<br>3. 最终以点赞统计截止时间的数据快照及人工结算结果为准；投稿数据校验通过时按单稿奖励上限预留预算。<br>4. 可用预算不足一个单稿上限时按钮禁用并显示“当前任务奖池名额已满”。<br>**交互说明：**<br>1. 点击“上传参与作品”时按灰度、实名、创作者认证、任务、预算和平台顺序校验；通过后进入提交页。<br>2. 未实名先完成实名认证；未通过创作者认证则进入认证申请。灰度未命中不建立新关系。<br>3. 返回列表恢复位置；任务状态冲突以服务端为准。 |
+| 需求描述 | **图示：**<br>![任务详情](https://cdn.jsdelivr.net/gh/z36358631-ship-it/-@232d9fbaadb5f2d45c2c431c2e232bb733db95b5/public/prd/publisher-plan-v2/03-task-detail.png)<br>**详细说明：** 详情页展示完整任务和奖励规则，并在进入投稿前执行准入、资格与预算校验。<br>**展示说明：**<br>1. 统计区展示已投稿数、每赞奖励和任务奖池；正文展示产品介绍、平台、投稿要求、奖励与结算、收入排行。<br>2. 投稿要求包含发布者配置的原任务要求、`#{实际推广游戏名称}`、`#盖世游戏`，以及“投稿发布时间不得早于任务提交时间（具体时间）”。<br>3. 奖励逐字说明“每 1 个赞奖励 X 盖世币，单篇最高 Y 盖世币”；预计奖励 = min（当前点赞数 × 每赞单价，单稿奖励上限）。<br>4. 最终以点赞统计截止时间的数据快照及人工结算结果为准；投稿数据校验通过时按单稿奖励上限预留预算。<br>5. 可用预算不足一个单稿上限时按钮禁用并显示“当前任务奖池名额已满”。<br>**交互说明：**<br>1. 点击“上传参与作品”时按灰度、实名、创作者认证、任务、预算和平台顺序校验；通过后进入提交页。<br>2. 未实名先完成实名认证；未通过创作者认证则进入认证申请。灰度未命中不建立新关系。<br>3. 返回列表恢复位置；任务状态冲突以服务端为准。 |
 | 输出／后置条件 | 符合条件的用户进入提交投稿页；不符合条件的用户看到明确禁用原因且不产生投稿记录。 |
 | 补充说明 | 奖池资格按单稿上限预留，不按预计奖励占用；已预留投稿在关闭或缩量后继续处理。 |
 
@@ -131,9 +132,9 @@
 | 功能简介 | 提交外站作品链接，由系统获取内容与数据，校验通过后进入待人工结算。 |
 | 场景描述 | 创作者完成外站作品后，从任务详情提交参与作品。 |
 | 输入／前置条件 | 任务可投稿；用户命中灰度、已实名且已通过创作者认证；作品已发布到任务允许的平台。 |
-| 需求描述 | **图示：**<br>![提交投稿](https://cdn.jsdelivr.net/gh/z36358631-ship-it/-@232d9fbaadb5f2d45c2c431c2e232bb733db95b5/public/prd/publisher-plan-v2/05-submit-work.png)<br>**详细说明：** 创作者只提交外站作品链接，系统自动获取内容和数据并分流正常或异常状态。<br>**展示说明：**<br>1. 页面展示允许平台、作品链接、任务要求和“数据获取与奖励”说明。<br>2. 系统获取标题、描述、标签、发布时间、时长和点赞数；预计奖励随点赞变化，最终以点赞统计截止时间快照及人工结算结果为准。<br>3. 抓取失败不会按 0 点赞结算。<br>**交互说明：**<br>1. 前端校验非空、URL 和平台域名；服务端以“平台＋标准化平台内容 ID”校验重复、任务状态和资格。<br>2. 内容与数据完整取得且规则校验通过后，自动进入“数据校验通过，待人工结算”，并按单稿奖励上限预留预算。<br>3. 抓取超时进入抓取重试；关键字段缺失或基础风险进入人工处理；删除、私密或风险数据进入风险挂起。异常状态不生成预计奖励和结算结果。<br>4. 网络失败不清空输入；重复提交不新增记录。 |
-| 输出／后置条件 | 生成唯一投稿记录；正常记录进入待人工结算，异常记录进入重试、人工处理、驳回或风险挂起。 |
-| 补充说明 | 同一作品仅最早有效记录可参与；最终入账通过任务 ID、结算批次和投稿 ID 幂等。 |
+| 需求描述 | **图示：**<br>![提交投稿](https://cdn.jsdelivr.net/gh/z36358631-ship-it/-@232d9fbaadb5f2d45c2c431c2e232bb733db95b5/public/prd/publisher-plan-v2/05-submit-work.png)<br>**详细说明：** 创作者只提交外站作品链接，系统自动获取内容和数据并分流正常或异常状态。<br>**展示说明：**<br>1. 页面按“投稿平台→投稿要求→视频链接→数据获取与奖励”展示；投稿要求与任务详情一致。<br>2. 投稿要求包含发布者配置的原任务要求、必须带 `#{实际推广游戏名称}` 话题、必须带 `#盖世游戏` 话题，以及投稿发布时间不得早于任务提交时间；占位符在页面中替换为实际游戏名，并显示具体任务提交时间。<br>3. 系统获取标题、描述、标签、发布时间、时长和点赞数；预计奖励随点赞变化，最终以点赞统计截止时间快照及人工结算结果为准。<br>4. 抓取失败不会按 0 点赞结算。<br>**交互说明：**<br>1. 前端校验非空、URL 和平台域名；服务端以“平台＋标准化平台内容 ID”校验重复、任务状态和资格。<br>2. 服务端以任务提交时间快照和标准化话题执行强校验；缺少任一必带话题或投稿时间过早时提示具体原因，不生成有效投稿记录，不进入待人工结算，不预留预算。<br>3. 内容与数据完整取得，且话题、发布时间、平台、任务、唯一性和风险规则全部通过后，自动进入“数据校验通过，待人工结算”，并按单稿奖励上限预留预算。<br>4. 抓取超时进入抓取重试；关键字段缺失或基础风险进入人工处理；删除、私密或风险数据进入风险挂起。异常状态不生成预计奖励和结算结果。<br>5. 网络失败不清空输入；重复提交不新增记录。 |
+| 输出／后置条件 | 符合要求时生成唯一投稿记录并进入待人工结算；话题或时间不符合时不生成有效投稿、不预留预算；其他异常进入重试、人工处理、驳回或风险挂起。 |
+| 补充说明 | 1. 同一作品仅最早有效记录可参与；最终入账通过任务 ID、结算批次和投稿 ID 幂等。<br>2. 任务提交时间取任务首次成功进入机器审核时的服务端北京时间，不随自动发布、追加预算、延期或客户端时间变化。<br>3. 话题校验去除首个 `#` 后精确匹配标准化话题名称；不使用标题或正文中的普通同名文本替代话题。 |
 
 #### 3.1.6 创建发行任务
 
@@ -406,7 +407,7 @@
 | `publisher_task_submit` | C 端／创建任务；新增 | 任务提交成功进入机器审核，且次数计数和预算冻结完成 | uid, task_id, daily_submit_count, coin_per_like, per_submission_cap, budget_coin, image_count, result_status, fail_reason |
 | `publisher_task_machine_review_result` | 服务端／机器审核；新增 | 机器审核得到明确通过、明确拒绝或转人工结果 | task_id, rule_version, text_check_result, image_check_result, ocr_check_result, result_status, fail_reason |
 | `publisher_submission_submit` | C 端／提交投稿；新增 | 唯一投稿记录创建成功 | uid, task_id, submission_id, platform, content_id |
-| `publisher_submission_check_result` | 服务端／投稿校验；新增 | 抓取与自动校验进入待人工结算、重试、人工处理或挂起 | task_id, submission_id, content_id, likes, fetched_at, expected_reward, reserved_coin, result_status, fail_reason |
+| `publisher_submission_check_result` | 服务端／投稿校验；新增 | 抓取与自动校验进入待人工结算、规则拒绝、重试、人工处理或挂起 | task_id, submission_id, content_id, task_submitted_at, content_published_at, required_topics, topic_check_result, publish_time_check_result, likes, fetched_at, expected_reward, reserved_coin, result_status, fail_reason |
 | `publisher_task_end_action` | C/B 端／任务管理；新增 | 发布者提前结束或运营普通／风险下架成功 | task_id, operator_role, action_type, task_status, affected_submission_count |
 | `publisher_settlement_batch_action` | B 端／结算管理；新增 | 运营确认、驳回、挂起或重抓结算批次 | batch_id, task_id, submission_count, settlement_coin, action_type, result_status, fail_reason |
 | `publisher_creator_certification_action` | B 端／创作者审核；新增 | 运营通过、驳回或撤销创作者认证 | uid, application_id, real_name_status, posts, fans, required_fans, action_type, result_status |
@@ -447,6 +448,11 @@
 | submission_id | string；是 | 投稿唯一标识 | SUB001 |
 | platform | enum；是 | 投稿平台 | douyin＝抖音；bilibili＝哔哩哔哩；kuaishou＝快手；xiaohongshu＝小红书 |
 | content_id | string；是 | 标准化平台内容 ID | 7382456719023487 |
+| task_submitted_at | datetime；是 | 任务首次成功进入机器审核的服务端北京时间 | 2026-05-25 10:00:00 |
+| content_published_at | datetime；否 | 外站作品实际发布时间；未取全不传 | 2026-05-26 18:20:00 |
+| required_topics | string[]；是 | 本任务要求精确匹配的标准化话题，不带首个 `#` | ["中奖概率倍儿高啊啊","盖世游戏"] |
+| topic_check_result | enum；是 | 两个必带话题校验结果 | pass＝均存在；reject＝至少缺少一个；unknown＝话题未取全 |
+| publish_time_check_result | enum；是 | 投稿发布时间与任务提交时间比较结果 | pass＝不早于；reject＝早于；unknown＝时间未取全 |
 | likes | int；否 | 本次获取的点赞数；未取全不传 | 3800 |
 | fetched_at | datetime；否 | 外站数据抓取时间；未成功不传 | 2026-09-11 10:30:00 |
 | expected_reward | int；否 | 按当前数据计算的预计奖励；校验未通过不传 | 7600 |
@@ -468,8 +474,8 @@
 | face_value | int；是 | 京东卡面额，单位为人民币元，仅描述卡商品，不作为盖世币固定汇率 | 20 |
 | coin_cost | int；是 | 当前商品兑换所需盖世币，取下单价格快照；不表示盖世积分 | 2000 |
 | order_id | string；否 | 兑换订单唯一标识；前置校验失败且未创建订单时不传 | JDO_202608310001 |
-| result_status | enum；是 | 各事件结果；按事件限制合法值 | 灰度配置：success＝保存成功；invalid＝配置非法；conflict＝配置版本冲突；failed＝保存失败<br>任务机审：auto_published＝自动发布；rejected＝审核拒绝；manual_exception＝转人工异常处理<br>投稿：pending_settlement＝待人工结算；retry＝等待重抓；manual＝转人工处理；risk_hold＝风险挂起；rejected＝投稿驳回<br>结算：settled＝已结算；held＝已挂起；rejected＝结算驳回；refetched＝已重抓；failed＝结算失败<br>认证：passed＝认证通过；rejected＝认证驳回；revoked＝认证撤销<br>兑卡：success＝发放成功；failed＝发放失败；refunded＝已退回；pending_review＝待核对 |
-| fail_reason | enum；否 | 失败、不确定或异常原因；成功时不传 | rollout_config_unavailable＝灰度配置不可用；machine_timeout＝机审超时；content_risk＝任务内容风险<br>fetch_timeout＝取数超时；missing_field＝必需字段缺失；duplicate_content＝作品重复；risk_hit＝命中投稿风险<br>amount_mismatch＝金额校验不一致；insufficient_redeemable_balance＝可兑换余额不足；out_of_stock＝卡密售罄；product_offline＝商品下架<br>delivery_failed＝卡密发放失败；result_unknown＝外部结果不确定 |
+| result_status | enum；是 | 各事件结果；按事件限制合法值 | 灰度配置：success＝保存成功；invalid＝配置非法；conflict＝配置版本冲突；failed＝保存失败<br>任务机审：auto_published＝自动发布；rejected＝审核拒绝；manual_exception＝转人工异常处理<br>投稿：pending_settlement＝待人工结算；rule_rejected＝规则拒绝；retry＝等待重抓；manual＝转人工处理；risk_hold＝风险挂起；rejected＝投稿驳回<br>结算：settled＝已结算；held＝已挂起；rejected＝结算驳回；refetched＝已重抓；failed＝结算失败<br>认证：passed＝认证通过；rejected＝认证驳回；revoked＝认证撤销<br>兑卡：success＝发放成功；failed＝发放失败；refunded＝已退回；pending_review＝待核对 |
+| fail_reason | enum；否 | 失败、不确定或异常原因；成功时不传 | rollout_config_unavailable＝灰度配置不可用；machine_timeout＝机审超时；content_risk＝任务内容风险<br>fetch_timeout＝取数超时；missing_field＝必需字段缺失；duplicate_content＝作品重复；missing_required_topic＝缺少必带话题；published_before_task＝作品发布时间早于任务提交时间；risk_hit＝命中投稿风险<br>amount_mismatch＝金额校验不一致；insufficient_redeemable_balance＝可兑换余额不足；out_of_stock＝卡密售罄；product_offline＝商品下架<br>delivery_failed＝卡密发放失败；result_unknown＝外部结果不确定 |
 | action_type | enum；是 | 当前业务动作 | end_early＝提前结束；normal_takedown＝普通下架；risk_takedown＝风险下架<br>settle＝确认结算；reject＝驳回；hold＝挂起；refetch＝重新抓取<br>certify＝认证通过；revoke＝撤销认证；reveal＝查看卡密；copy＝复制卡密 |
 
 #### 4.1.4 数据报表
@@ -487,7 +493,7 @@
 | 灰度准入 | 服务端为最终判定方；登录用户使用 `account_id`，未登录使用稳定 `installation_id`，按固定 `rollout_seed` 计算 0～99 桶值。同一轮次结果稳定，20% 扩至 50% 时原命中用户继续命中。配置读取失败或非法时拒绝新曝光；已有关系继续履约。 |
 | 实名与限次 | 发布任务与兑换均要求实名认证。入口未实名时拉起实名认证弹窗，成功后只恢复原动作；任务提交与兑换接口再次校验。发布任务按实名主体聚合，北京时间自然日最多成功提交 10 次；次数计数、任务创建和预算冻结需幂等。投稿另校验创作者认证，认证与专属标签分离。 |
 | 任务机审 | 保存文字、图片内容安全、OCR、账号、次数、预算和规则版本结果；全部明确通过才自动发布。超时、无响应或不确定进入人工异常处理；取消后的审核回调不得重新上架。 |
-| 外站取数 | 保存平台、标准化内容 ID、原链接、标题、描述、标签、发布时间、时长、点赞数、抓取时间、校验结果和证据版本。抓取失败、字段缺失、删除、私密、重复或风险不得生成正常结算结果。 |
+| 外站取数 | 保存平台、标准化内容 ID、原链接、标题、描述、标准化话题、发布时间、时长、点赞数、抓取时间、任务提交时间快照、校验结果和证据版本。必须同时包含实际推广游戏话题和“盖世游戏”话题，且作品发布时间不早于任务提交时间；缺话题、时间过早、抓取失败、字段缺失、删除、私密、重复或风险均不得生成正常结算结果。 |
 | 预算与结算 | 数据校验通过时按单稿上限预留；最终金额由结算快照、每赞单价和单稿上限计算，前端与后台只读。以任务 ID＋结算批次＋投稿 ID 保证人工确认和盖世币入账幂等，释放差额和原来源可追溯。 |
 | 操作审计 | 记录机审异常处理、重新抓取、挂起、恢复、驳回、普通／风险下架、认证、标签邀请、灰度保存和结算确认的操作人、时间、前后状态、规则或配置版本。 |
 | 安全 | 卡密加密存储和传输，页面、普通日志、报表、下载文件默认脱敏；脱敏时只显示末 4 位，其余以 `*` 替代，长度不超过 4 位时全部隐藏。完整卡密只在授权查看或用户主动查看时短时返回，查看、复制、作废、核对均写不可删除的审计记录。 |
@@ -505,7 +511,7 @@
 |---|---|
 | 灰度 | 总开关、20%／50%／100%、同主体稳定、20% 扩 50% 包含关系、100% 全量、配置失败关闭新曝光、缩量后存量继续 |
 | 发布 | 未实名入口弹窗、认证成功进入创建页但不自动提交、最终提交二次实名校验、日 10 次、预算 5,000～10,000,000、图片与 OCR、明确通过自动发布、明确拒绝退回、不确定转人工、审核中取消和重复提交幂等 |
-| 投稿 | 双认证、平台域名、内容 ID 去重、完整取数自动进入待人工结算、按单稿上限预留、超时重试、删除／私密／风险挂起、预算不足 |
+| 投稿 | 双认证、平台域名、内容 ID 去重、原任务要求展示、实际游戏话题、`#盖世游戏`、投稿时间不早于任务提交时间、缺话题与时间过早不预留、完整取数自动进入待人工结算、按单稿上限预留、超时重试、删除／私密／风险挂起、预算不足 |
 | 结算 | 任务级批次、系统金额只读、人工确认、风险拦截、重抓重算、驳回释放、差额释放、重复确认不重复入账 |
 | 回归 | 钱包来源、固定充值 SKU、兑换未实名弹窗、认证成功仅恢复确认、最终兑换二次实名校验、京东卡与卡密、普通／风险下架、认证与专属标签分离、旧版本存量访问 |
 

diff --git a/docs/superpowers/plans/2026-09-14-publisher-submission-requirements.md b/docs/superpowers/plans/2026-09-14-publisher-submission-requirements.md
@@ -1,0 +1,22 @@
+# 发行人计划投稿要求与自动校验实施计划
+
+**目标：** 将原任务要求、两个必带话题和投稿时间下限同步到任务详情、提交投稿页、自动校验、PRD 与证据。
+
+## Task 1：数据与展示
+
+- [ ] 为任务增加 `submittedAt`，为成功取数增加 `publishedAt` 和实际话题。
+- [ ] 建立统一投稿要求生成方法，供任务详情和提交投稿页复用。
+- [ ] 在“提交投稿”页新增投稿要求卡片，展示实际游戏名称和具体任务提交时间。
+
+## Task 2：自动校验
+
+- [ ] 校验 `#{推广游戏名称}` 与 `#盖世游戏` 均存在。
+- [ ] 校验 `publishedAt >= task.submittedAt`。
+- [ ] 不符合时提示具体原因，且不增加投稿记录或预留预算。
+
+## Task 3：PRD 与验证
+
+- [ ] PRD 增加展示、字段、状态、埋点参数和异常规则。
+- [ ] 静态合同锁定文案、字段和方法。
+- [ ] 离线 UI 覆盖正常、缺话题和时间过早场景，并重生成截图。
+- [ ] 运行 PRD、视觉与公网验证，固定图片提交并推送。
